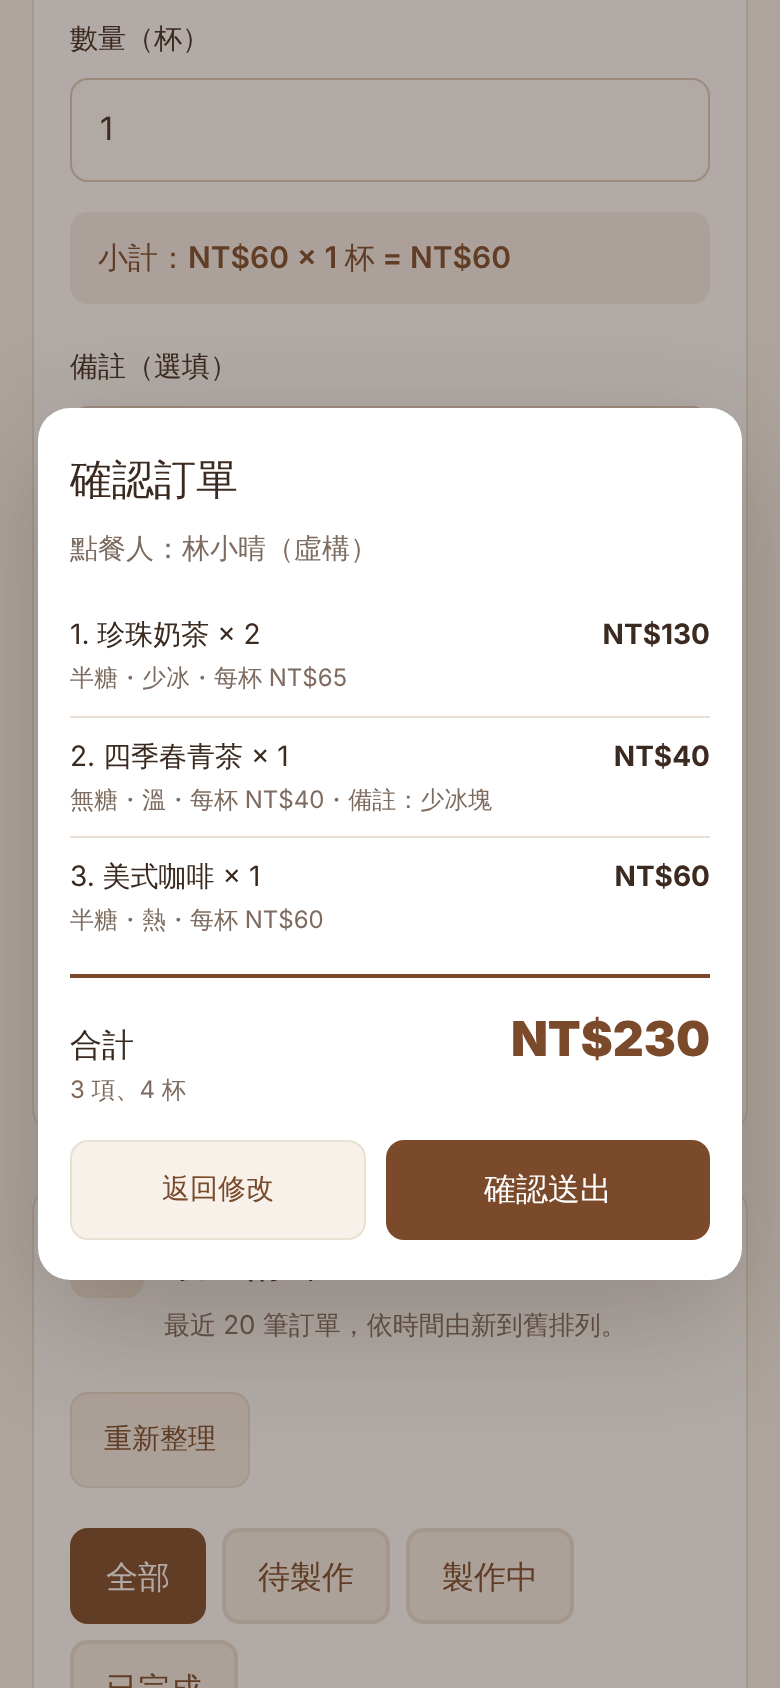
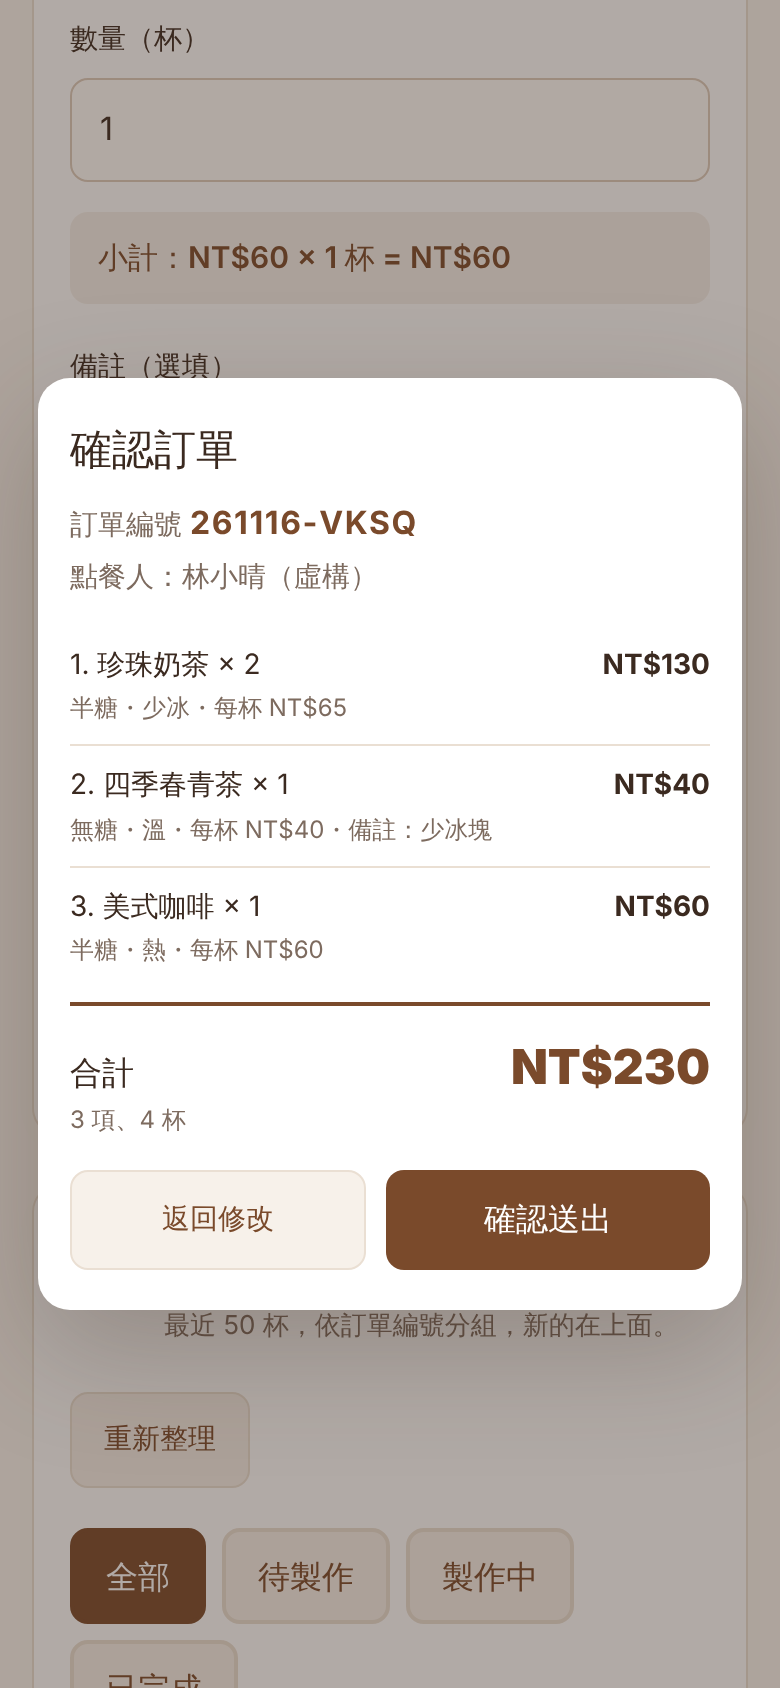
新增訂單編號並依訂單分組顯示
- 新增 order_no（YYMMDD-4 碼英數），確認訂單時產生，同一張訂單每杯共用
- 確認頁與成功訊息顯示訂單編號，重新送出沿用同一編號
- 最近訂單讀取 50 杯，依訂單編號分組並顯示訂單合計；舊資料顯示為無編號
- 新增 20261116_03_order_no.sql 遷移並同步 schema.sql
- 更新回歸測試、截圖、需求筆記與 README

Claude-Session: https://claude.ai/code/session_01PMThZ8T3LDcZiV1NZyRfh1

diff --git a/app.js b/app.js
@@ -19,6 +19,16 @@
   const summaryList = document.querySelector('#summary-list');
   const summaryTotal = document.querySelector('#summary-total');
   const summaryCount = document.querySelector('#summary-count');
+  const summaryNo = document.querySelector('#summary-no');
+  // 訂單編號：台北日期 YYMMDD-4 碼英數（不含 I、O），格式須與資料庫 drink_orders_order_no_check 一致。
+  const ORDER_NO_CHARS = '0123456789ABCDEFGHJKLMNPQRSTUVWXYZ';
+  const newOrderNo = () => {
+    const date = new Intl.DateTimeFormat('en-CA', { timeZone: 'Asia/Taipei', year: '2-digit', month: '2-digit', day: '2-digit' })
+      .format(new Date()).replace(/\D/g, '');
+    const random = crypto.getRandomValues(new Uint32Array(4));
+    return `${date}-${Array.from(random, value => ORDER_NO_CHARS[value % ORDER_NO_CHARS.length]).join('')}`;
+  };
+  const LIST_LIMIT = 50;
   const summaryMessage = document.querySelector('#summary-message');
   const summaryBack = document.querySelector('#summary-back');
   const summaryConfirm = document.querySelector('#summary-confirm');
@@ -67,26 +77,54 @@
     }).format(date) + '（台北時間）';
   };
   const statusClass = status => status === '已完成' ? 'done' : status === '製作中' ? 'making' : '';
+  // 依訂單編號分組；沒有編號的舊資料各自成為一張訂單。資料已依時間由新到舊排序。
+  function groupOrders(rows) {
+    const groups = [];
+    const byKey = new Map();
+    rows.forEach(row => {
+      const key = row.order_no ? `no:${row.order_no}` : `id:${row.id}`;
+      let group = byKey.get(key);
+      if (!group) {
+        group = { orderNo: row.order_no, customerName: row.customer_name, createdAt: row.created_at, items: [] };
+        byKey.set(key, group);
+        groups.push(group);
+      }
+      group.items.push(row);
+    });
+    return groups;
+  }
+  const rowTotal = row => (Number(row.amount) || 0) * (Number(row.quantity) || 0);
   function renderOrders() {
     const visibleOrders = selectedStatus === '全部' ? orders
       : orders.filter(order => order.status === selectedStatus);
-    const cards = visibleOrders.map(order => {
+    const groups = groupOrders(visibleOrders);
+    const cards = groups.map(group => {
       const card = element('li', 'order-card', '');
       const top = element('div', 'order-top', '');
-      top.append(element('h3', '', `${order.drink} × ${order.quantity}`),
-        element('span', 'badge amount', money(order.amount * order.quantity)),
-        element('span', 'badge', order.sugar),
-        element('span', 'badge', order.ice),
-        element('span', `badge status ${statusClass(order.status)}`, order.status));
-      card.append(top);
-      if (order.note) card.append(element('p', 'order-note', `備註：${order.note}`));
-      card.append(element('div', 'order-meta', `${order.customer_name} · 每杯 ${money(order.amount)} · ${formatTime(order.created_at)}`));
+      top.append(element('h3', 'order-no', group.orderNo ? `訂單 ${group.orderNo}` : '訂單（無編號）'),
+        element('span', 'badge amount', `合計 ${money(group.items.reduce((sum, row) => sum + rowTotal(row), 0))}`));
+      const items = element('ul', 'order-items', '');
+      items.append(...group.items.map(row => {
+        const item = element('li', 'order-item', '');
+        const line = element('div', 'order-item-line', '');
+        line.append(element('strong', 'order-item-name', `${row.drink} × ${row.quantity}`),
+          element('span', 'order-item-price', money(rowTotal(row))));
+        const tags = element('div', 'order-item-tags', '');
+        tags.append(element('span', 'badge', row.sugar),
+          element('span', 'badge', row.ice),
+          element('span', `badge status ${statusClass(row.status)}`, row.status),
+          element('span', 'order-item-meta', `每杯 ${money(row.amount)}`));
+        item.append(line, tags);
+        if (row.note) item.append(element('p', 'order-note', `備註：${row.note}`));
+        return item;
+      }));
+      card.append(top, items, element('div', 'order-meta', `${group.customerName} · ${formatTime(group.createdAt)}`));
       return card;
     });
     list.replaceChildren(...cards);
     const cups = visibleOrders.reduce((sum, order) => sum + (Number(order.quantity) || 0), 0);
-    const total = visibleOrders.reduce((sum, order) => sum + (Number(order.amount) || 0) * (Number(order.quantity) || 0), 0);
-    cupTotal.textContent = `${selectedStatus === '全部' ? '' : `「${selectedStatus}」`}共 ${cards.length} 筆、${cups} 杯，合計 ${money(total)}`;
+    const total = visibleOrders.reduce((sum, order) => sum + rowTotal(order), 0);
+    cupTotal.textContent = `${selectedStatus === '全部' ? '' : `「${selectedStatus}」`}共 ${groups.length} 張訂單、${cups} 杯，合計 ${money(total)}`;
     cupTotal.hidden = !cards.length;
     showMessage(listMessage, !navigator.onLine ? '目前離線，無法取得最新訂單。已顯示的紀錄僅保留於本次開啟的頁面。'
       : loading ? '正在載入訂單…'
@@ -115,8 +153,8 @@
     showMessage(listMessage, '正在載入訂單…');
     try {
       const { data, error } = await client.from('drink_orders')
-        .select('id,customer_name,drink,sugar,ice,amount,quantity,note,status,created_at')
-        .order('created_at', { ascending: false }).order('id', { ascending: false }).limit(20);
+        .select('id,order_no,customer_name,drink,sugar,ice,amount,quantity,note,status,created_at')
+        .order('created_at', { ascending: false }).order('id', { ascending: false }).limit(LIST_LIMIT);
       if (error) throw error;
       orders = data || [];
       hasLoaded = true;
@@ -240,7 +278,10 @@
       if (!item) return;
       items.push(item);
     }
-    pendingItems = items.map(item => ({ customer_name: customerName, ...item }));
+    // 每次開啟確認頁產生新編號；在確認頁內重新送出時沿用同一編號。
+    const orderNo = newOrderNo();
+    pendingItems = items.map(item => ({ order_no: orderNo, customer_name: customerName, ...item }));
+    summaryNo.textContent = orderNo;
     summaryCustomer.textContent = `點餐人：${customerName}`;
     summaryList.replaceChildren(...pendingItems.map((item, index) => {
       const row = element('li', 'summary-item', '');
@@ -282,7 +323,7 @@
       pendingItems = [];
       form.reset();
       updateSubtotal();
-      showMessage(formMessage, `訂單已成功送出！共 ${items.length} 項、${cupsOf(items)} 杯，合計 ${money(sumOf(items))}。`, 'success');
+      showMessage(formMessage, `訂單已成功送出！訂單編號 ${items[0].order_no}，共 ${items.length} 項、${cupsOf(items)} 杯，合計 ${money(sumOf(items))}。`, 'success');
       await loadOrders();
     } catch (error) {
       showMessage(summaryMessage, `送出失敗，已點內容都保留。請確認連線後重試；若連線中斷，請先關閉此視窗並重新整理清單確認是否已下單。錯誤：${error.message || '連線失敗'}`, 'error');

diff --git a/style.css b/style.css
@@ -8,3 +8,5 @@
 .choice-options.six{grid-template-columns:repeat(6,1fr)}@media(max-width:600px){.choice-options.six{grid-template-columns:repeat(3,1fr)}}
 .cart{border:1px solid var(--line);border-radius:12px;background:#fffaf4;padding:14px 16px;margin:0 0 22px}.cart-head{display:flex;justify-content:space-between;align-items:center;gap:10px;margin-bottom:8px;font-size:15px}.cart-total{color:var(--green);font-weight:700}.cart-list,.summary-list{list-style:none;margin:0;padding:0}.cart-item,.summary-item{display:flex;align-items:flex-start;justify-content:space-between;gap:10px;padding:9px 0;border-top:1px solid var(--line);font-size:14px}.cart-item:first-child,.summary-item:first-child{border-top:0}.cart-item-text,.summary-item-text{overflow-wrap:anywhere}.cart-item-text small,.summary-item-text small{display:block;color:var(--muted);font-size:12px}.cart-item-price,.summary-item-price{font-weight:700;white-space:nowrap}.cart-item-end{display:flex;align-items:center;gap:8px}.cart-remove{min-height:32px;padding:4px 10px;font-size:12px;background:#f7f1ea;color:#a13423;border:1px solid var(--line)}.item-editor{border-top:1px dashed var(--line);padding-top:4px}.item-title{font-size:17px;margin:14px 0 16px;color:var(--green)}.item-title:focus{outline:none}.item-editor.page-in{animation:page-in .35s ease}@keyframes page-in{from{opacity:0;transform:translateX(24px)}to{opacity:1;transform:none}}@media(prefers-reduced-motion:reduce){.item-editor.page-in{animation:none}}.form-actions{display:flex;gap:10px;flex-wrap:wrap;justify-content:flex-end}.form-actions .secondary{font-size:16px;padding:12px 18px}.summary-dialog{width:min(520px,calc(100vw - 32px));max-height:calc(100dvh - 32px);border:0;border-radius:16px;padding:24px;color:inherit;background:#fff;box-shadow:0 20px 60px #3b2a2040}.summary-dialog::backdrop{background:#3b2a2066}.summary-dialog h2{margin:0 0 6px}.summary-customer{margin:0 0 12px;color:var(--muted);font-size:14px;overflow-wrap:anywhere}.summary-total{display:flex;justify-content:space-between;align-items:baseline;border-top:2px solid var(--green);margin:8px 0 16px;padding-top:12px;font-weight:600}.summary-total strong{font-size:24px;color:var(--green)}.summary-actions{display:flex;justify-content:flex-end;gap:10px;flex-wrap:wrap}.summary-dialog .message{margin:0 0 14px}@media(max-width:600px){.form-actions{flex-direction:column}.form-actions button{width:100%}.summary-dialog{padding:20px 16px}.summary-actions button{flex:1}}
 .item-editor>label{display:block;margin-bottom:21px;font-size:14px;font-weight:600}.summary-total small{display:block;font-size:12px;font-weight:400;color:var(--muted)}
+.order-no{font-size:16px;margin:0 auto 0 0;letter-spacing:.03em}.order-items{list-style:none;margin:10px 0 0;padding:0}.order-item{padding:8px 0;border-top:1px dashed var(--line)}.order-item:first-child{border-top:0}.order-item-line{display:flex;align-items:center;gap:6px;flex-wrap:wrap}.order-item-name{margin-right:auto;font-size:15px;overflow-wrap:anywhere}.order-item-price{font-weight:700;font-size:14px;min-width:64px;text-align:right}.order-item-meta{font-size:12px;color:var(--muted)}.order-item .order-note{margin:4px 0 0;font-size:13px}.summary-no{margin:0 0 4px;font-size:14px;color:var(--muted)}.summary-no strong{color:var(--green);letter-spacing:.05em;font-size:16px}
+.order-item-line{justify-content:space-between;flex-wrap:nowrap}.order-item-tags{display:flex;align-items:center;gap:6px;flex-wrap:wrap;margin-top:4px}.order-item-tags .order-item-meta{margin-left:4px}

diff --git a/index.html b/index.html
@@ -43,13 +43,14 @@
     </section>
     <dialog id="summary-dialog" class="summary-dialog" aria-labelledby="summary-title">
       <h2 id="summary-title">確認訂單</h2>
+      <p class="summary-no">訂單編號 <strong id="summary-no"></strong></p>
       <p id="summary-customer" class="summary-customer"></p>
       <ol id="summary-list" class="summary-list"></ol>
       <p class="summary-total"><span>合計<small id="summary-count"></small></span><strong id="summary-total"></strong></p>
       <p id="summary-message" class="message" role="status" aria-live="polite" hidden></p>
       <div class="summary-actions"><button id="summary-back" class="secondary" type="button">返回修改</button><button id="summary-confirm" type="button">確認送出</button></div>
     </dialog>
-    <section class="panel orders-panel" aria-labelledby="list-title"><div class="list-heading"><div class="section-heading"><span class="step">02</span><div><h2 id="list-title">最近訂單</h2><p>最近 20 筆訂單，依時間由新到舊排列。</p></div></div><button id="refresh-button" class="secondary" type="button">重新整理</button></div><div class="status-filters" role="group" aria-label="依製作狀態篩選訂單"><button type="button" data-status-filter="全部" aria-pressed="true">全部</button><button type="button" data-status-filter="待製作" aria-pressed="false">待製作</button><button type="button" data-status-filter="製作中" aria-pressed="false">製作中</button><button type="button" data-status-filter="已完成" aria-pressed="false">已完成</button></div><p id="cup-total" class="cup-total" hidden></p><p id="list-message" class="message" role="status" aria-live="polite">正在載入訂單…</p><ul id="order-list" class="order-list" aria-label="最近訂單"></ul></section>
+    <section class="panel orders-panel" aria-labelledby="list-title"><div class="list-heading"><div class="section-heading"><span class="step">02</span><div><h2 id="list-title">最近訂單</h2><p>最近 50 杯，依訂單編號分組，新的在上面。</p></div></div><button id="refresh-button" class="secondary" type="button">重新整理</button></div><div class="status-filters" role="group" aria-label="依製作狀態篩選訂單"><button type="button" data-status-filter="全部" aria-pressed="true">全部</button><button type="button" data-status-filter="待製作" aria-pressed="false">待製作</button><button type="button" data-status-filter="製作中" aria-pressed="false">製作中</button><button type="button" data-status-filter="已完成" aria-pressed="false">已完成</button></div><p id="cup-total" class="cup-total" hidden></p><p id="list-message" class="message" role="status" aria-live="polite">正在載入訂單…</p><ul id="order-list" class="order-list" aria-label="最近訂單"></ul></section>
     <footer>午茶工作台 <span>／</span> 一杯一杯，準時送達。</footer>
   </main>
 </body>

diff --git a/README.md b/README.md
@@ -9,10 +9,11 @@
 
 - 表單欄位：點餐人、飲品（手動輸入，最多 50 字）、糖份（無糖～全糖）、冰量（去冰、微冰、少冰、正常冰、溫、熱）、金額、數量、備註（選填）。
 - 金額為每杯價格，依店家實際價目手動輸入（1～9,999 元整數）；數量 1～50 杯。表單即時顯示「小計＝金額 × 數量」。系統不內建價目表，無法確認輸入的金額是否正確。
-- 清單：最近 20 筆，新的在上面，時間以台北時間顯示；可依製作狀態「全部、待製作、製作中、已完成」篩選（僅篩選已載入的 20 筆），並顯示目前篩選的筆數、杯數與合計金額。
+- 清單：讀取最近 50 杯，依訂單編號分組成訂單卡片，新的在上面，時間以台北時間顯示。每張卡片顯示訂單編號、訂單合計、每杯小計、糖份、冰量、製作狀態與備註；沒有訂單編號的舊資料顯示為「訂單（無編號）」。可依製作狀態「全部、待製作、製作中、已完成」篩選（僅篩選已載入的 50 杯），並顯示目前篩選的訂單數、杯數與合計金額。若一張訂單跨過第 50 杯的界線，較舊的部分不會顯示。
 - 一次點多杯：填好一杯後按「＋ 新增下一筆飲品」，這杯會加入「已點飲品」清單（可按「移除」），表單換成「第 N 杯」的新頁面並保留點餐人。全部點完按「完成訂單」，跳出「確認訂單」頁面列出每杯小計並自動加總合計金額；按「確認送出」才寫入資料庫，按「返回修改」可繼續編輯。目前頁面若空白且清單已有飲品，只送出清單內容。一次最多 20 項。畫面見 [確認訂單](docs/order-summary.png)。
-- 整張訂單以一次陣列新增送出，資料庫以單一指令寫入，全部成功或全部失敗；送出失敗時保留已點內容，可按「重新送出」。資料庫沒有訂單編號欄位，每杯仍是一筆紀錄，清單依筆顯示。已點飲品只存在目前頁面，重新載入或關閉後不保留。
-- 前端每杯送出 customer_name、drink、sugar、ice、amount、quantity、note（未填為 null）；狀態與下單時間由資料庫產生。本功能不需資料庫遷移。
+- 整張訂單以一次陣列新增送出，資料庫以單一指令寫入，全部成功或全部失敗；送出失敗時保留已點內容，可按「重新送出」。每杯仍是一筆紀錄，同一張訂單共用訂單編號。已點飲品只存在目前頁面，重新載入或關閉後不保留。
+- 訂單編號：格式為台北日期 YYMMDD、連字號、4 碼大寫英數（不含 I、O），例如 `261116-7K3P`。開啟「確認訂單」時由瀏覽器產生並顯示，在確認頁內重新送出沿用同一編號；送出成功的訊息也會顯示編號。資料庫只檢查格式，不保證唯一（每天約 100 萬種組合，示範規模下重複機率極低）。
+- 前端每杯送出 order_no、customer_name、drink、sugar、ice、amount、quantity、note（未填為 null）；狀態與下單時間由資料庫產生。
 
 本機啟動：在根目錄執行 `python3 -m http.server 8000`，開啟 http://localhost:8000 。語法檢查：`node --check app.js` 與 `node --check config.js`。
 
@@ -26,6 +27,7 @@
 |---|---|
 | `20261116_01_drink_free_text.sql` | 飲品由固定清單改為手動輸入（1～50 字、不可只有空白） |
 | `20261116_02_ice_warm.sql` | 冰量新增「溫」 |
+| `20261116_03_order_no.sql` | 新增訂單編號 `order_no`（可為空、格式檢查、索引、anon 可寫入） |
 請勿在前端放入 secret 或 service_role 金鑰。
 
 ## PWA 安裝與離線介面
